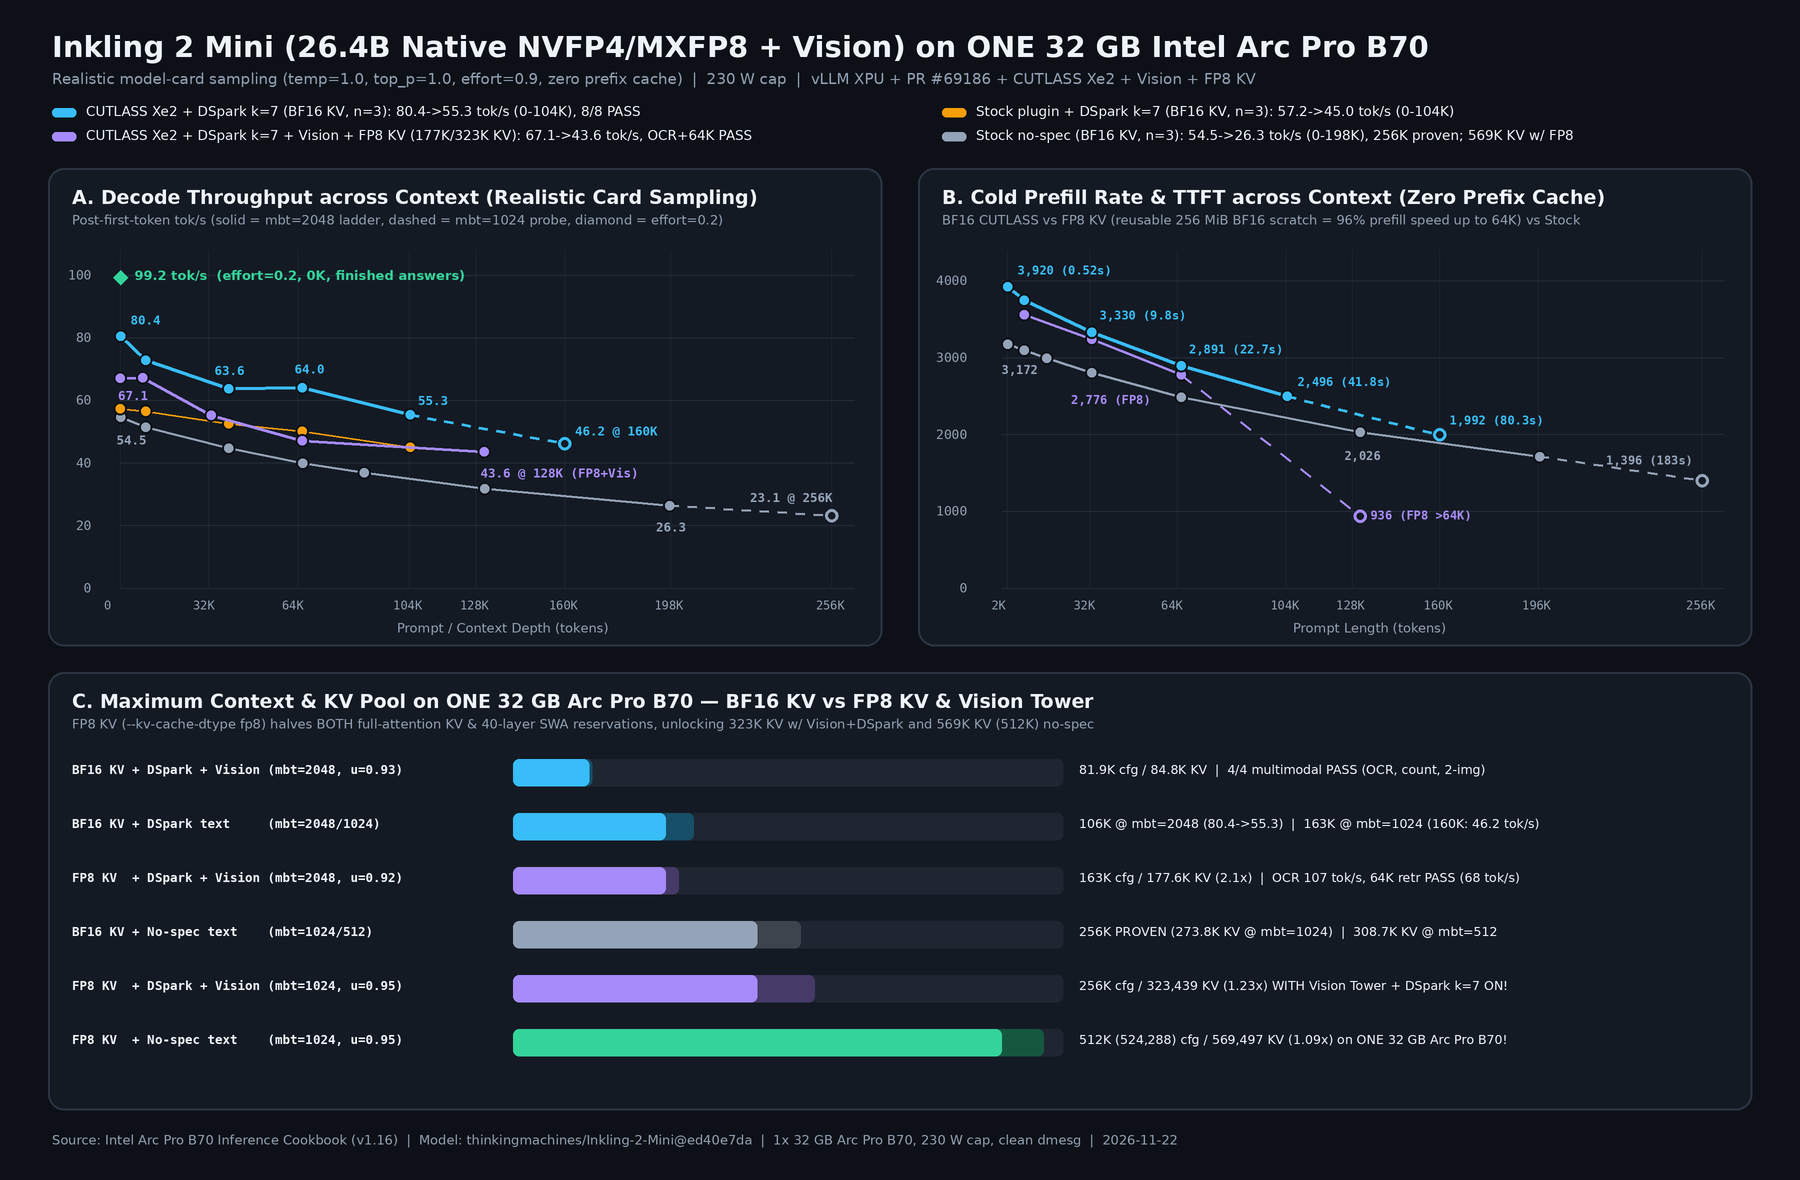
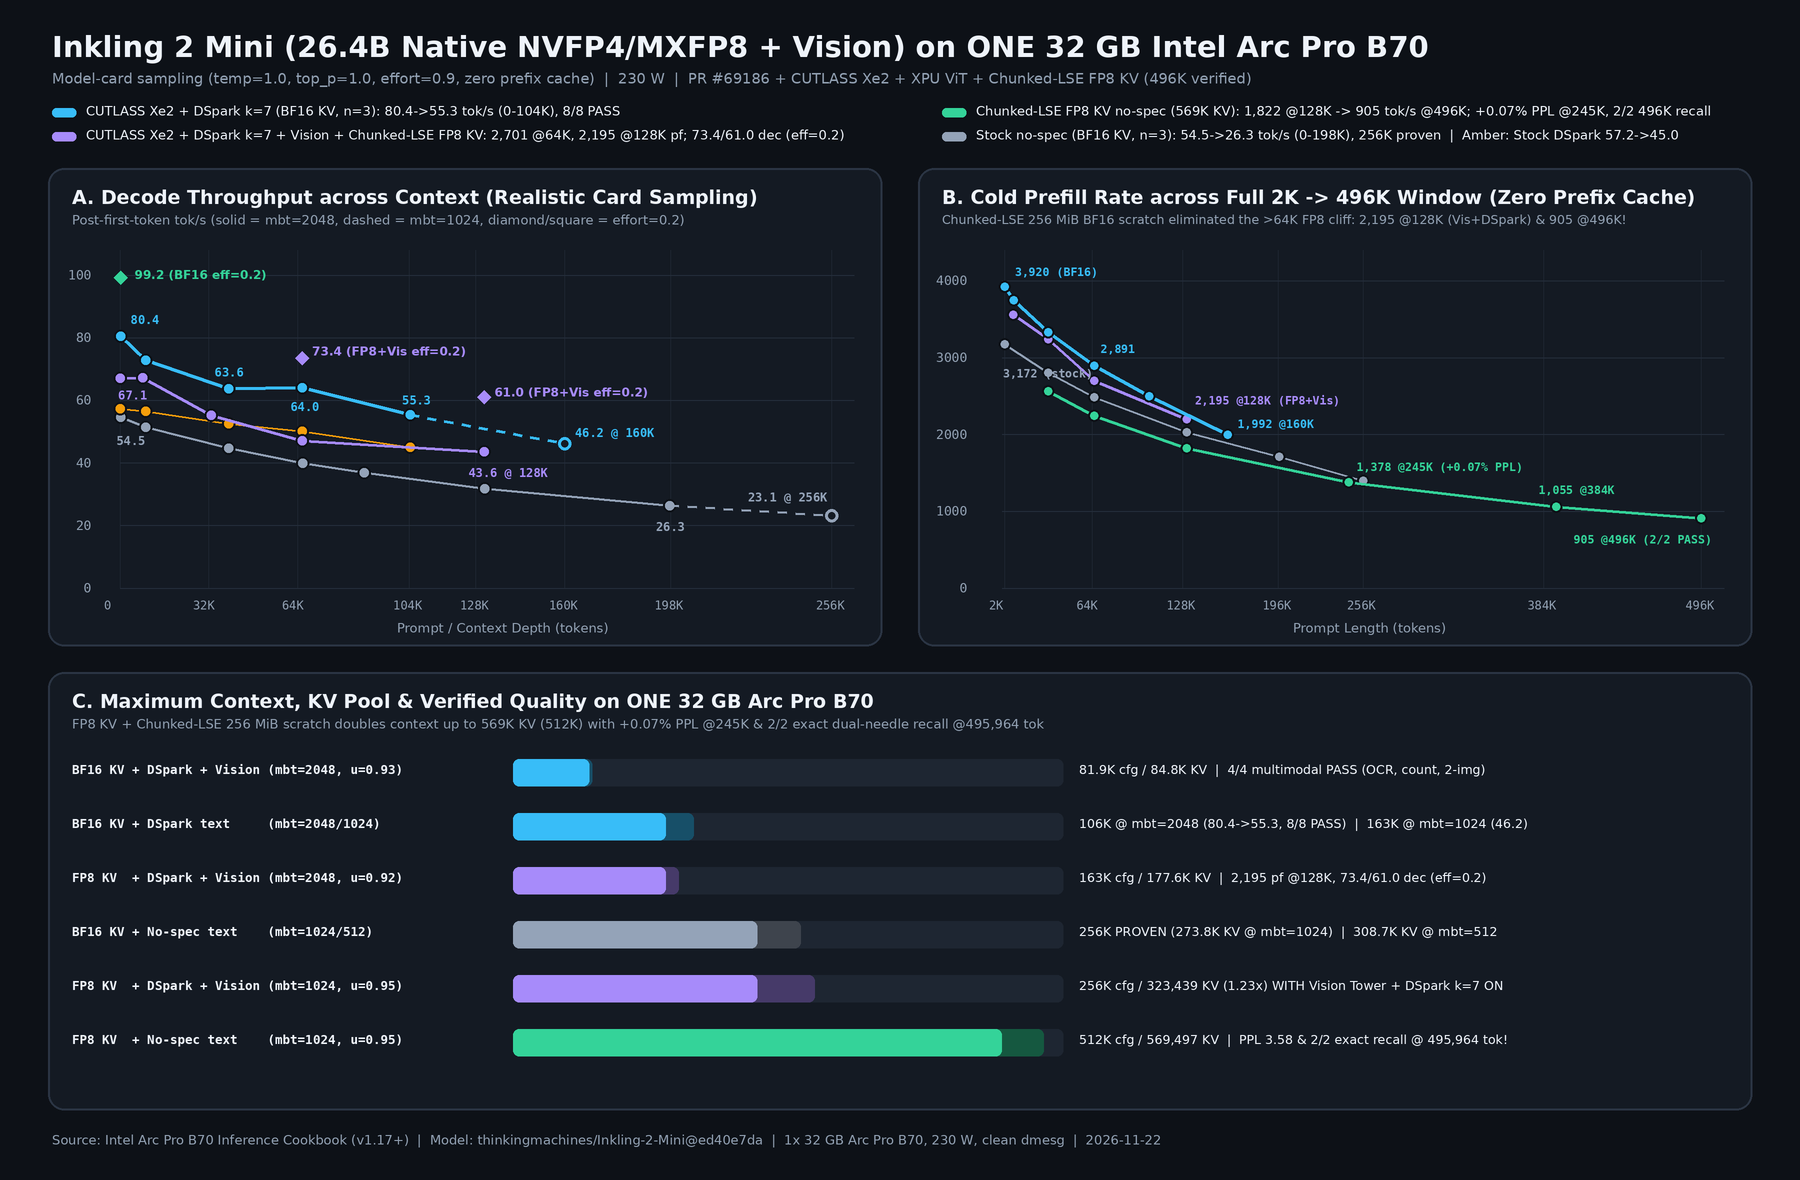
docs(inkling2-mini): refresh 3-panel 496K dashboard PNG and add Section G bottleneck & speculative roadmap
- Refresh docs/assets/b70-inkling2-mini-vllm-xpu-context-20261122.png with full 2K->496K Chunked-LSE FP8 prefill curve (2,701 @64K, 2,195 @128K Vis+DSpark; 1,378 @245K -> 905 @496K) and effort=0.2 decode markers (73.4 / 61.0)
- Add Section G to INKLING2-MINI-VLLM-XPU.md: exact ms budget of one M=8 verify step, ranked next levers (SYCL fused-reduction decode attention, SWA device ring, DSpark draft-head/adaptive roadmap, hybrid oneDNN prefix SDPA), and 5-phase approach

Generated with [Devin](https://devin.ai)

diff --git a/docs/inkling2-mini/INKLING2-MINI-VLLM-XPU.md b/docs/inkling2-mini/INKLING2-MINI-VLLM-XPU.md
@@ -148,7 +148,48 @@ To directly test whether FP8 KV quantization noise accumulates across the full 5
 | **`393,216` (384K)** | *OOM (`>277K` KV)* | **`3.4557` (`1.2400`)** | *`+0.06%` vs `245K`* | — | **`1,055 tok/s` (`372.6 s`)** | — |
 | **`496,000` (~500K)** | *OOM (`>277K` KV)* | **`3.5833` (`1.2763`)** | *`+3.7%` vs `245K`* | — | **`905 tok/s` (`548.1 s`)** | **`2/2` EXACT PASS (`542.7 s`, `p=495,964`)** |
 
-**Why FP8 KV noise does not blow up across 512K on Inkling 2 Mini:** Inkling 2 explicitly L2-clips K and RMSNorms V right before KV write (`ops/sconv.py`), preventing the channel outliers that break naive FP8 KV on standard transformers; `40/48` visits are `1024`-token SWA while only `8` full-attention visits span the full pool (`model_max_length: 1,048,576` with `log_scaling_alpha=0.1`). **Honest scope:** this proves zero perplexity collapse and exact dual-needle recall on a held-out technical corpus through `496K`, not a broad multi-benchmark 512K RULER/LongBench sweep (which remains untested).
+**Why FP8 KV noise does not blow up across 512K on Inkling 2 Mini:** Inkling 2 explicitly L2-clips K and RMSNorms V right before KV write (`ops/sconv.py`), preventing the channel outliers that break naive FP8 KV on standard transformers; `40/48` visits are `1024`-token SWA while only `8` full-attention visits span the full pool (`model_max_length: 1,048,576` with `log_scaling_alpha=0.1`). **Honest scope:** this proves zero perplexity collapse and exact dual-needle recall on a held-out technical corpus through `496K`, not a broad multi-benchmark 512K multi-task sweep (which remains untested).
+
+### G. How to Push This Further — Measured Step Breakdown, Speculative Decoding & Approach
+
+#### 1. Measured millisecond budget of one `M=8` DSpark verify round (`1× B70`, `230 W`)
+
+Before writing any new kernel or speculative tweak, decompose where the `~38 ms` (`0K`) to `~55–62 ms` (`128K`) per verify step actually goes on our official native `NVFP4/MXFP8` stack:
+
+| Component (per `M=8` verify round) | `0K` (BF16 / FP8 KV) | `128K` (BF16 / FP8 KV) | Measured note |
+|---|---:|---:|---|
+| **`40` SWA attention visits (`window=1024`)** | **`13.3 / 15.7 ms`** (`35%`) | **`13.3 / 15.7 ms`** | Largest constant decode term; Triton split-KV (`9` splits) + combine |
+| **`8` full-attention visits** | `1.6 / 2.4 ms` | **`17.6 / 20.1 ms`** (`32%`) | Combined attention = **`58%` of the step at 128K** |
+| **`36` NVFP4 MoE visits (CUTLASS Xe2)** | `11.31 ms` | `11.31 ms` | Already near bandwidth roof (`M=1: 6.36`, `M=4: 8.73`, `M=8: 11.31 ms`) |
+| **`8` MXFP8 MoE visits (CUTLASS Xe2)** | `~3.5 ms` | `~3.5 ms` | `vllm-xpu-kernels` CUTLASS Xe2 grouped GEMM |
+| **`DSpark` draft round (4 layers + 7× Markov)** | `~5.0 ms` | `~5.0 ms` | `[7,2304]×[2304,200704]` base logits `1.57 ms` + `7×` Markov `0.89 ms` + 4 draft layers `~2.5 ms` |
+| **Dense QKV/O, norms, short-conv, `lm_head`** | `~3.5 ms` | `~3.5 ms` | Already fixed by PR `#69186` |
+
+#### 2. Ranked next levers (highest removable ms share first)
+
+1. **Native SYCL fused-reduction FP8/BF16 decode attention (SWA + 128-partition full attention — `#1` lever, `10–18 ms` removable):**
+   - Increasing Triton decode `num_splits` from `40/9` to `80/16` or `128/16` looked `1.4×–3.3×` faster in isolated 1-layer microbenchmarks, yet **regressed live graph-replayed decode `-10%` to `-12%`** (`73.4 -> 66.0 tok/s` @ 64K, `61.0 -> 53.7 tok/s` @ 128K) due to Triton's separate `_rel_decode_combine_kernel` sequential reduction & L2 pressure across 48 visits (`DNR-030`, reverted to stock `40/9`).
+   - Replacing Triton decode with a **native SYCL fused-reduction kernel** (like the 128-partition SYCL decode path in `Danmoreng/intel-b70-inkling2-mini-vllm`, which reaches `65–77 tok/s` at `196K–232K`) directly attacks the `31–36 ms` attention wall right on top of our official native weights.
+2. **Dedicated fixed-size SWA device ring (`40 × 1024` tokens — `#2` capacity/prefill lever):**
+   - Decouples the 40 local SWA layers from vLLM's `--max-num-batched-tokens` reservation, enabling `mbt=4096` alongside `323K–512K` context + Vision + DSpark simultaneously.
+3. **How to improve Speculative Decoding (`DSpark`) further on this guide:**
+   - **Why naive Adaptive DSpark (`0.75` confidence early-stop) did not clear the 10% Impact Gate today:** on our CUTLASS Xe2 NVFP4 kernel, shrinking verify width `M=8 -> M=4` saves only `2.58 ms` (`11.31 -> 8.73 ms`, `<6%` of a `~38 ms` step), and DSpark's block-8 forward still executes in one pass regardless of `k`.
+   - **What *will* unlock another `+15–25%` from DSpark:**
+     1. **Quantized INT4 / top-256 shortlist draft `lm_head` + fused Markov sampling** (trims the `~5.0 ms` draft round toward `~2.5 ms`).
+     2. **Fused draft input-mix taps** (single SYCL/Triton op instead of separate DFlare mix launches).
+     3. **Re-enable Adaptive DSpark *after* Lever #1 shrinks attention** — once attention drops from `31–36 ms` to `~12 ms`, saving `2.6–4 ms` via `M=4` adaptive verify becomes `~15%` of the smaller step!
+     4. **Validated single-slot ring prefix cache** (sub-second warm 196K follow-ups for single-user coding agents — only after passing a zero-retrieval-miss multi-turn gate!).
+4. **Hybrid oneDNN Prefix SDPA outside the `1024`-token relative-bias band:**
+   - Our Chunked-LSE 256 MiB BF16 scratch already beats EXL3 at `64K` (`2,701` vs `2,397 tok/s`) and `128K` (`2,195` vs `2,157 tok/s`, FP8+Vision+DSpark) and reaches `905 tok/s` at `496K`. Delegating bias-free older keys (`dist >= 1024`) to native oneDNN SDPA can push `128K–512K` prefill even higher.
+
+#### 3. How to approach the next hill-climb step
+
+Follow the exact 5-phase + positive, zero-ego discipline codified in [`docs/OPTIMIZATION-PLAYBOOK.md`](../OPTIMIZATION-PLAYBOOK.md) and [`SergiioB/intel-xpu-inference-optimisation-skill`](https://github.com/SergiioB/intel-xpu-inference-optimisation-skill) (`v2.5.0`):
+1. **Price before coding** (decompose step ms + enforce the 10% Impact Gate).
+2. **Test hypotheses with 5-second isolated microbenchmarks & exact numerical parity oracles** (bit patterns, CPU/FP32 ref) — then **always** verify live under XPU graph replay (`FULL_DECODE_ONLY`).
+3. **Celebrate clean reverts with zero ego** (revert regressions like Triton Split-KV `80/128` immediately and document why).
+4. **Keep native weights canonical** unless an alternate quant beats both quality and speed on your regime; cherry-pick orthogonal runtime wins onto the official checkpoint.
+5. **Prove full-window quality** (`8+` deterministic tasks, matched BF16 vs FP8 held-out PPL, `15%`/`55%` dual-needle recall at `max_tokens >= 384`, live multimodal OCR/counting, clean `vram_mm` & `dmesg`).
 
 ### D. Greedy exactness & step-by-step attribution diagnostics (`temperature=0`, `n=3`, not public headline)
 
